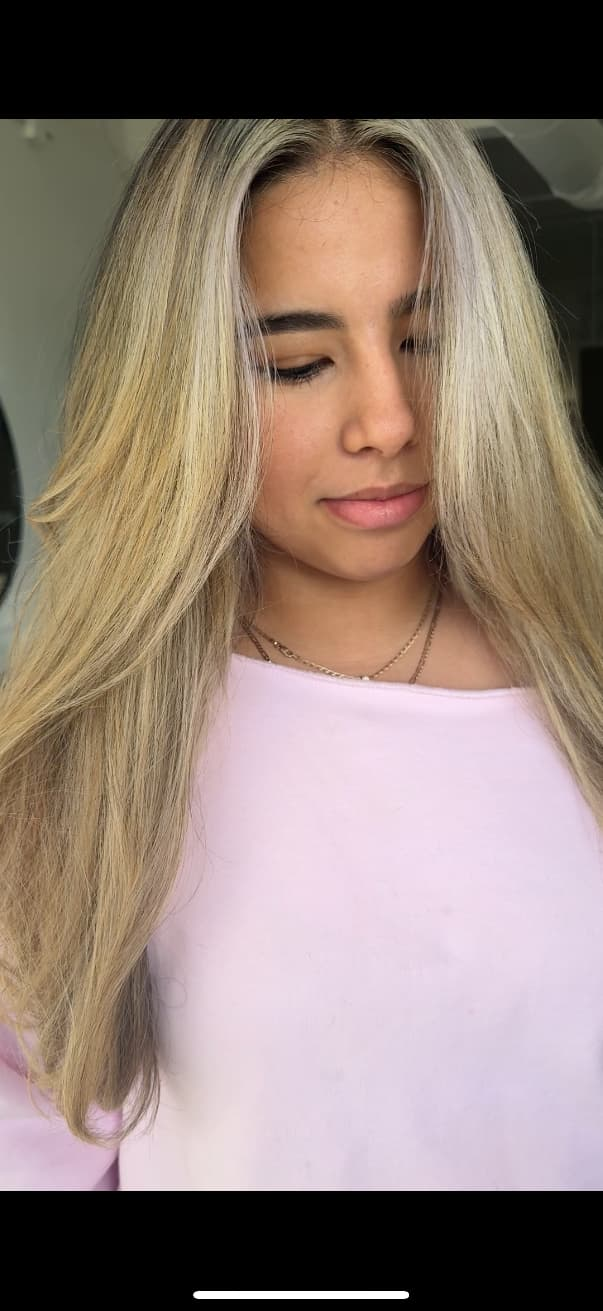
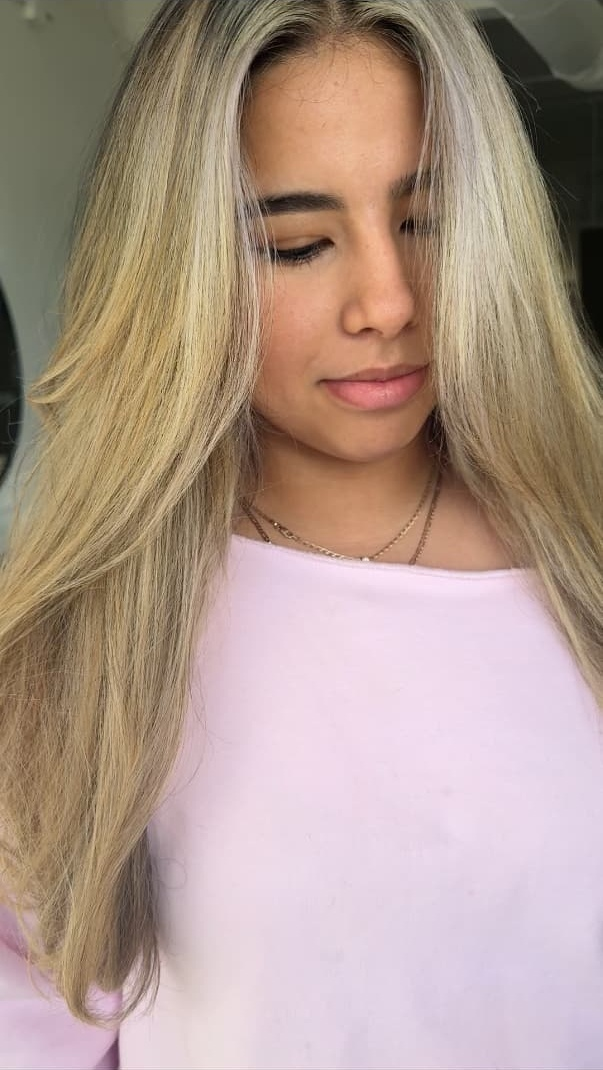
image services and magnetic changes in the website

diff --git a/src/components/Services.jsx b/src/components/Services.jsx
@@ -11,6 +11,7 @@ import {
   FiTrash2, 
   FiInfo
 } from "react-icons/fi";
+import { AiOutlineInstagram } from "react-icons/ai";
 import Magnetic from "./Magnetic";
 
 export default function Services() {
@@ -574,14 +575,15 @@ export default function Services() {
                     </p>
 
                     {/* Confirmation Button */}
-                    <Magnetic strength={0.1}>
+                    <Magnetic strength={0.1} className="w-full block">
                       <a
                         href="https://www.instagram.com/honeydoeshair?igsh=MWU3a3plaXUyNDBuZQ%3D%3D&igsi=MWU3a3plaXUyNDBuZQ%3D%3D"
                         target="_blank"
                         rel="noopener noreferrer"
-                        className="w-full text-center py-4 bg-accent text-dark-brown hover:bg-primary hover:text-white font-sans text-xs font-bold tracking-widest uppercase rounded-full shadow-md hover:shadow-xl transition-all duration-300 block hover:scale-[1.02]"
+                        className="w-full flex items-center justify-center gap-2 py-4 bg-primary hover:bg-secondary text-white font-sans text-xs font-bold tracking-widest uppercase rounded-full shadow-md hover:shadow-xl transition-all duration-300 hover:scale-[1.02]"
                       >
-                        Inquire Consultation
+                        <AiOutlineInstagram className="w-4 h-4" />
+                        <span>Inquire Consultation</span>
                       </a>
                     </Magnetic>
                   </motion.div>

diff --git a/src/components/Magnetic.jsx b/src/components/Magnetic.jsx
@@ -1,7 +1,7 @@
 import { useRef, useState } from "react";
 import { motion } from "framer-motion";
 
-export default function Magnetic({ children, strength = 0.35 }) {
+export default function Magnetic({ children, strength = 0.35, className = "inline-block" }) {
   const ref = useRef(null);
   const [position, setPosition] = useState({ x: 0, y: 0 });
 
@@ -26,7 +26,7 @@ export default function Magnetic({ children, strength = 0.35 }) {
       onMouseLeave={handleMouseLeave}
       animate={{ x: position.x, y: position.y }}
       transition={{ type: "spring", stiffness: 180, damping: 12, mass: 0.2 }}
-      className="inline-block"
+      className={className}
     >
       {children}
     </motion.div>
